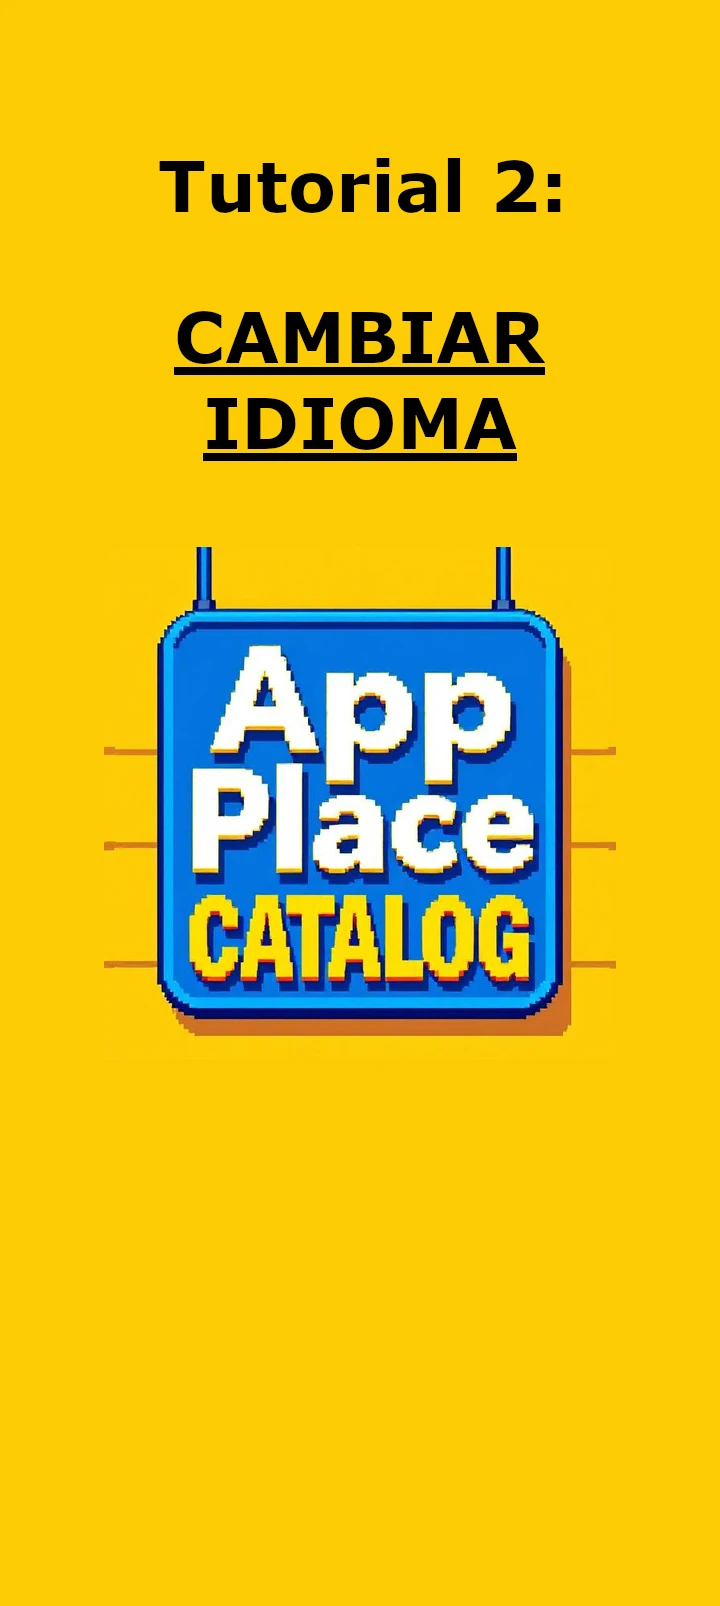
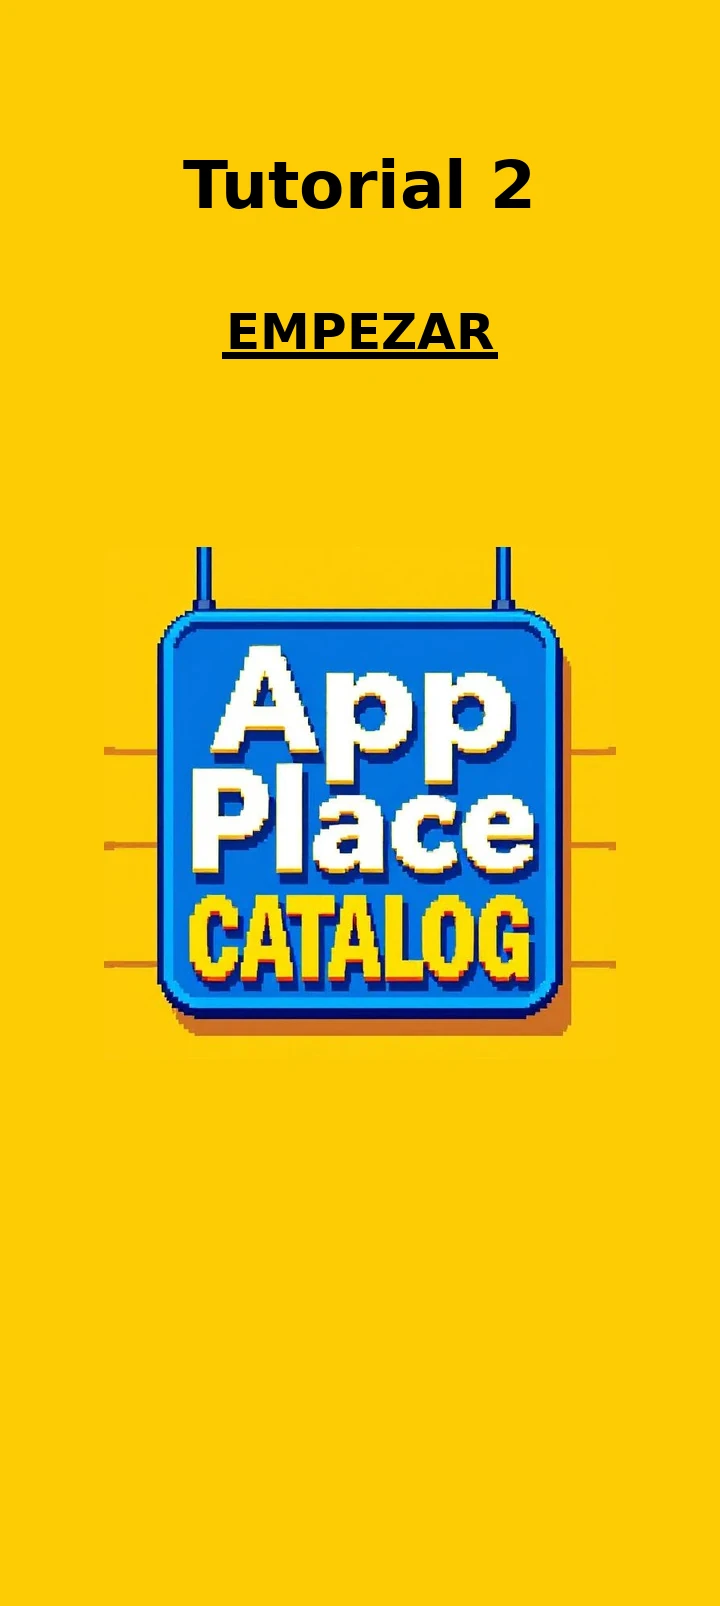
Portadas uniformes renumeradas por tutorial y flechas en los botones

Changed region(s): [[0.2444, 0.1868, 0.7639, 0.3113], [0.2139, 0.0934, 0.6417, 0.1557], [0.6722, 0.0934, 0.7944, 0.1557]]

diff --git a/src/App.tsx b/src/App.tsx
@@ -10,15 +10,16 @@ import { APPS, leerRuta, rutaDe } from './rutas'
 const VELOCIDADES = [1, 1.5, 2, 3, 4]
 
 const PORTADAS: Record<SupportedLanguage, string[]> = {
-  en: Array.from({ length: 12 }, (_, i) => `/portada-${String(i).padStart(2, '0')}-en.webp`),
-  es: Array.from({ length: 12 }, (_, i) => `/portada-${String(i).padStart(2, '0')}-es.webp`)
+  // El numero del archivo es el del tutorial, que empieza en 1, no en 0
+  en: Array.from({ length: 12 }, (_, i) => `/portada-${String(i + 1).padStart(2, '0')}-en.webp`),
+  es: Array.from({ length: 12 }, (_, i) => `/portada-${String(i + 1).padStart(2, '0')}-es.webp`)
 }
 
 // Las dos apps llevan su portada por nombre y no por numero: asi no hay que
 // rehacerlas si algun dia cambia la posicion de APPS en la lista
 const PORTADAS_APPS: Record<SupportedLanguage, string[]> = {
-  en: ['/portada-languages-en.webp', '/portada-love-and-friends-en.webp'],
-  es: ['/portada-languages-es.webp', '/portada-love-and-friends-es.webp']
+  en: ['/portada-11-1-en.webp', '/portada-11-2-en.webp'],
+  es: ['/portada-11-1-es.webp', '/portada-11-2-es.webp']
 }
 
 // La portada depende del idioma activo; un idioma inesperado cae al ingles
@@ -456,7 +457,7 @@ export default function App() {
                   className={claseBoton(activo, false)}
                 >
                   <span className={i === 0 ? undefined : 'min-w-0 hyphens-auto break-words'}>
-                    {t(entrada.clave)}
+                    {entrada.sub === null ? `<< ${t(entrada.clave)}` : t(entrada.clave)}
                   </span>
                 </button>
               )
@@ -470,8 +471,18 @@ export default function App() {
                 className={claseBoton(i === videoActivo)}
               >
                 {/* Solo el primer punto parte la palabra: es la unica que no cabe entera */}
-                <span className={i === 0 ? 'min-w-0 hyphens-auto break-words' : undefined}>
-                  {t(`videos.v${i}`)}
+                <span
+                  className={
+                    i === 0
+                      ? 'min-w-0 hyphens-auto break-words'
+                      : // APPs lleva la ese minuscula a proposito, asi que este
+                        // boton no puede heredar el uppercase de los demas
+                        i === APPS
+                        ? 'normal-case'
+                        : undefined
+                  }
+                >
+                  {i === APPS ? 'APPs >>' : t(`videos.v${i}`)}
                 </span>
               </button>
             ))}
